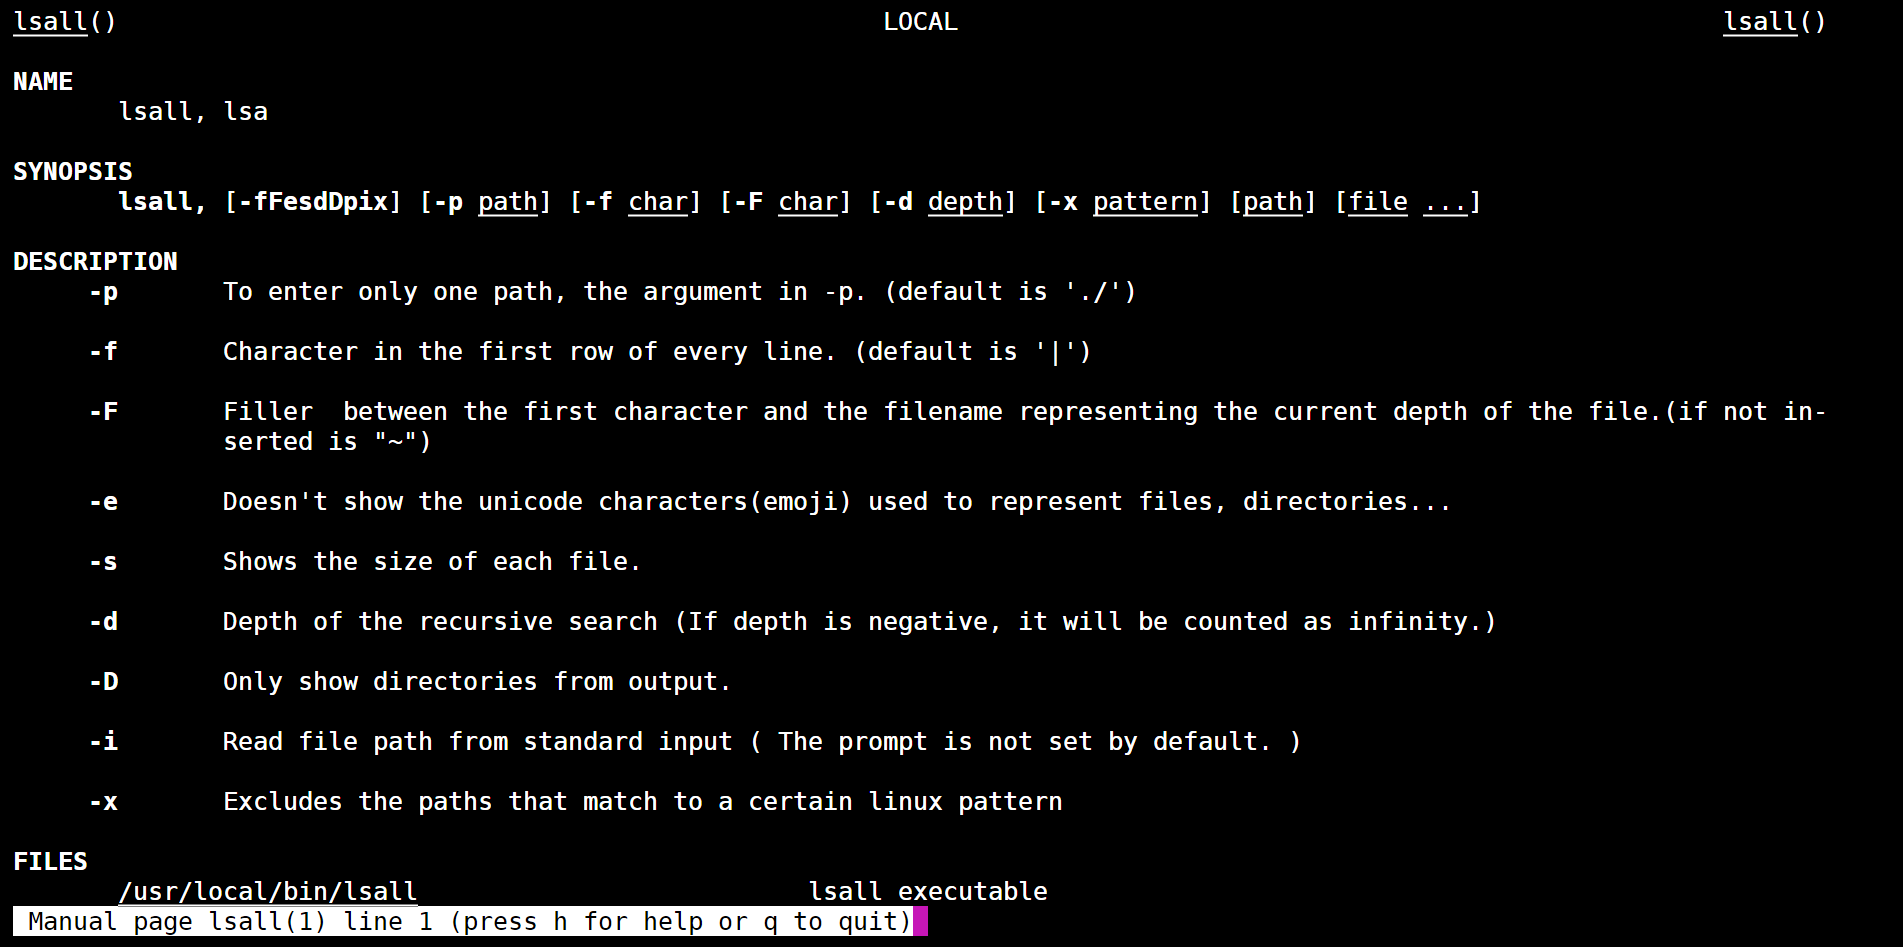
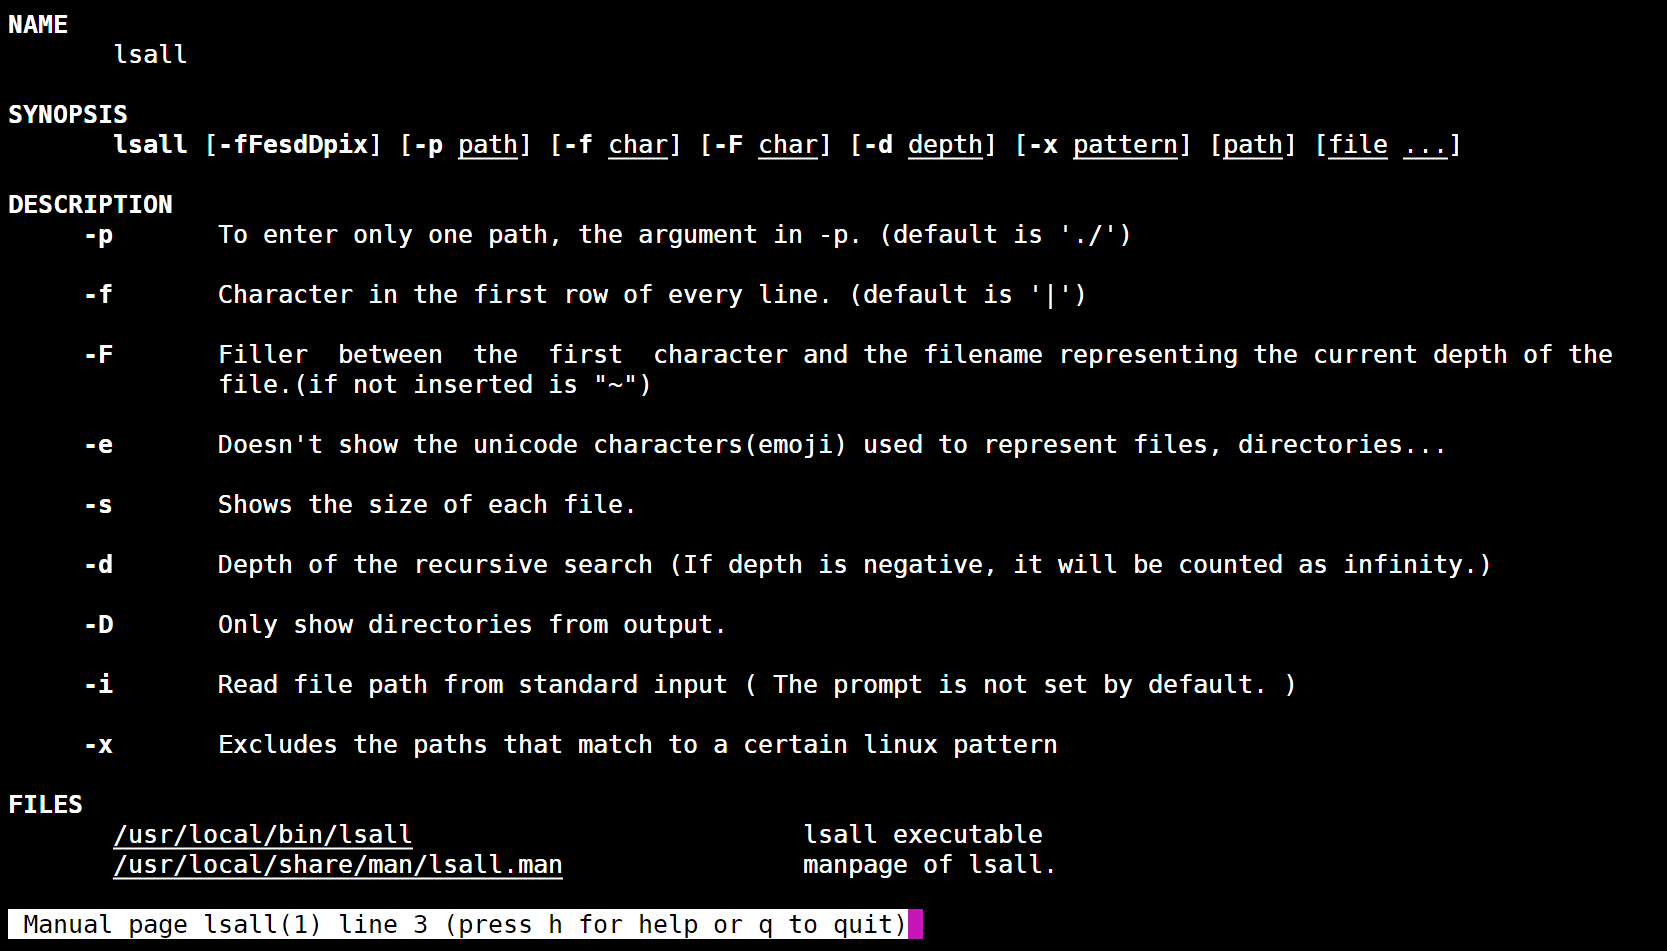
Changed README.md and updated manpage screenshot.

diff --git a/README.md b/README.md
@@ -1,6 +1,6 @@
 # lsall
 
-Lsall is a project that focuses on the tree-like visualization of a folder, with various arguments.
+`lsall` is a project that focuses on the tree-like visualization of a directory, with various arguments.
 
 ---
 ## Installation
@@ -109,10 +109,15 @@ $ lsall -d1 -x ".git"
 |~📃 Makefile
 ```
 
-## ManPage
+## man page
 
-The [manual page](src/lsall.1)(man1) is an user made man page of the lsall project.
-Here is a screenshot of the manpage from a older version of lsall.
+The [manual page](src/lsall.1)(man1) is a man1 made page of the lsall project, and 
+it is automatically installed using `make install`.
+
+You can access it using the normal `man lsall` if the program is installed globally, but if you don't want to install it, you can still look at the manual using the relative path: `man src/lsall.1`.
+
+Here is a screenshot of the manpage from the current version of the man page of lsall.
 
 ![manpage screenshot](screenshots/lsall_manpage.png)
+
 
